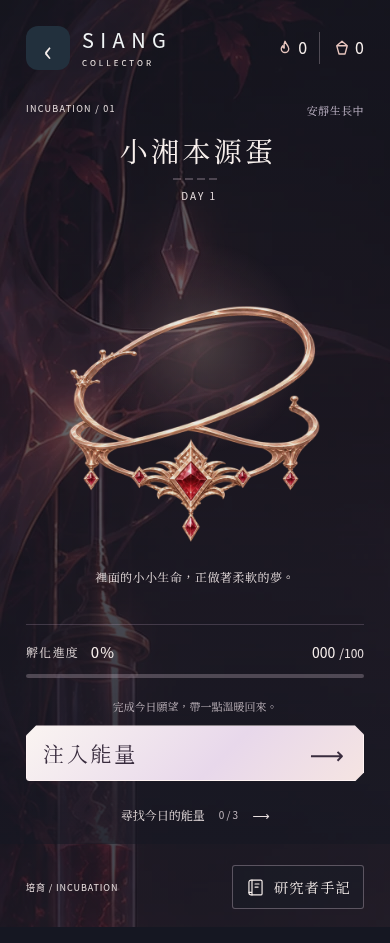
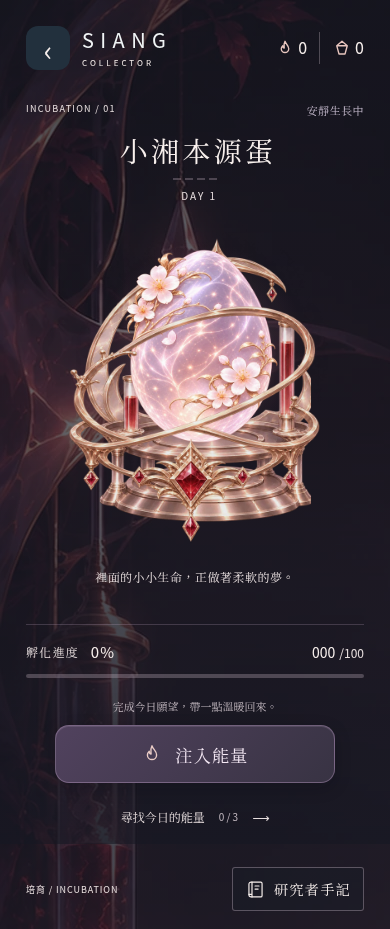
Refine energy injection with centered care button

diff --git a/css/incubation.css b/css/incubation.css
@@ -18,7 +18,13 @@ body[data-view="incubate"] .app { min-height:100svh; height:auto; overflow:visib
 .view--incubate .vitals__num { grid-row:1; grid-column:2; }
 .incubation-controls { display:flex; flex-direction:column; gap:10px; }
 #incubation-cost { text-align:center; margin:3px 0 0; color:var(--silver); font:11px/1.7 var(--font-display); }
-.view--incubate #cultivate { display:flex; align-items:center; min-height:56px; font:400 21px var(--font-display); letter-spacing:.13em; }
+.view--incubate #cultivate { display:flex; align-items:center; justify-content:center; gap:12px; align-self:center; width:min(100%,280px); min-height:58px; padding:14px 24px; font:400 17px var(--font-display); letter-spacing:.08em; color:#f5e9f5; background:linear-gradient(135deg,#51425e,#383343); border:1px solid #ad91b578; border-radius:14px; clip-path:none; box-shadow:0 5px 16px #09091238,inset 0 1px #ead4ef1f; transition:transform .18s ease,background .18s ease,border-color .18s ease; }
+.view--incubate #cultivate::after { content:none; }
+#cultivate svg { width:22px; height:22px; stroke:#eaccc6; stroke-width:1.5; stroke-linecap:round; stroke-linejoin:round; }
+.view--incubate #cultivate:active:not(:disabled) { transform:scale(.97); background:#594563; border-color:#e1c5e6; }
+.view--incubate #cultivate:focus-visible { outline:2px solid #efdaef; outline-offset:4px; }
+@media(hover:hover) { .view--incubate #cultivate:hover:not(:disabled) { background:linear-gradient(135deg,#60506e,#44394e); } }
+@media(prefers-reduced-motion:reduce) { .view--incubate #cultivate { transition:none; } }
 #cultivate:disabled { opacity:.65; cursor:wait; }
 #incubate-wishes { display:flex; justify-content:center; align-items:center; gap:14px; min-height:46px; padding:8px; border:0; background:none; color:var(--pearl); font:12px var(--font-display); }
 #incubate-wish-progress { font:10px var(--font-body); color:var(--silver); }

diff --git a/index.html b/index.html
@@ -115,7 +115,7 @@
         <span class="vitals__bpm"><span id="ecg-bpm">48</span> BPM</span>
       </div>
     </section>
-    <div class="incubation-controls"><p id="incubation-cost"></p><button class="btn" type="button" id="cultivate">注入能量</button><button type="button" id="incubate-wishes">尋找今日的能量 <span id="incubate-wish-progress">0 / 3</span><span aria-hidden="true">⟶</span></button></div>
+    <div class="incubation-controls"><p id="incubation-cost"></p><button class="btn" type="button" id="cultivate"><svg viewBox="0 0 24 24" fill="none" aria-hidden="true"><path d="M12 3c1 4 5 5.5 5 10a5 5 0 0 1-10 0c0-2 1-3 2-4 0 2 1 3 2 3 0-3-1-5 1-9Z"/></svg><span id="cultivate-label">注入能量</span></button><button type="button" id="incubate-wishes">尋找今日的能量 <span id="incubate-wish-progress">0 / 3</span><span aria-hidden="true">⟶</span></button></div>
   </main>
 
   <main class="view view--wish" data-view="wish" hidden>

diff --git a/js/app.js b/js/app.js
@@ -93,7 +93,7 @@ function renderHome() {
   incubator.el.classList.toggle('is-ready', ready);
 
   $('egg-name').textContent = egg.name;
-  $('cultivate').textContent = ready ? '迎接新夥伴' : '注入能量';
+  $('cultivate-label').textContent = ready ? '迎接新夥伴' : '注入能量';
   $('cultivate').disabled = busy;
   $('incubator-status').textContent = ['安靜生長中', '感受到小小的動靜', '生命正在甦醒', '快要見面了', '準備好相遇了'][s];
   $('incubation-message').textContent = ['裡面的小小生命，正做著柔軟的夢。', '好像聽見了你的聲音，輕輕回應了一下。', '細小的裂痕裡，藏著即將到來的相遇。', '再一點點溫暖，就能見到你了。', '牠已經準備好了。一起迎接新夥伴吧。'][s];
